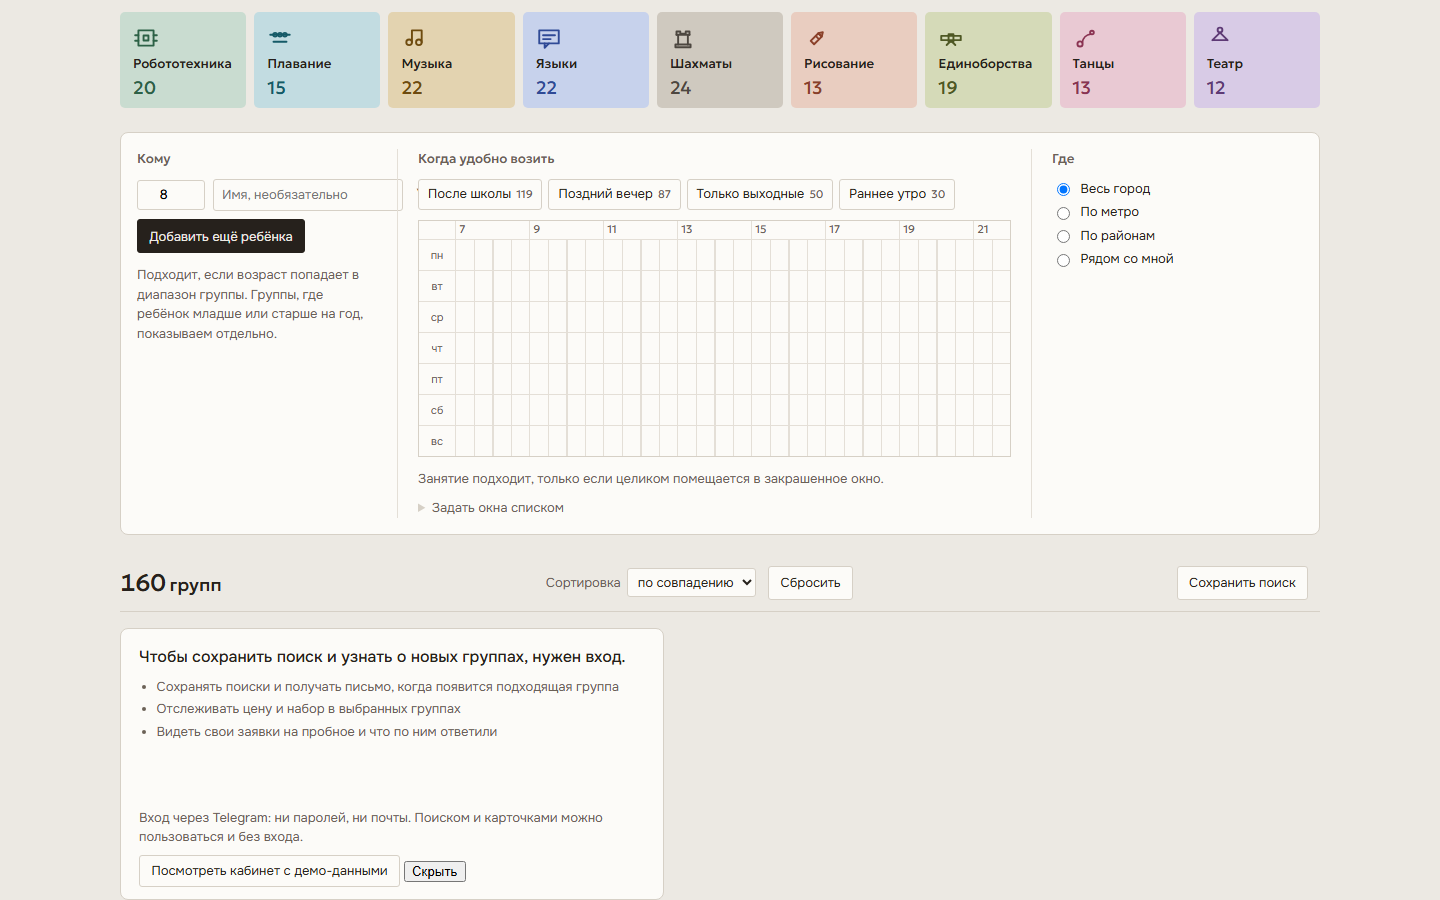
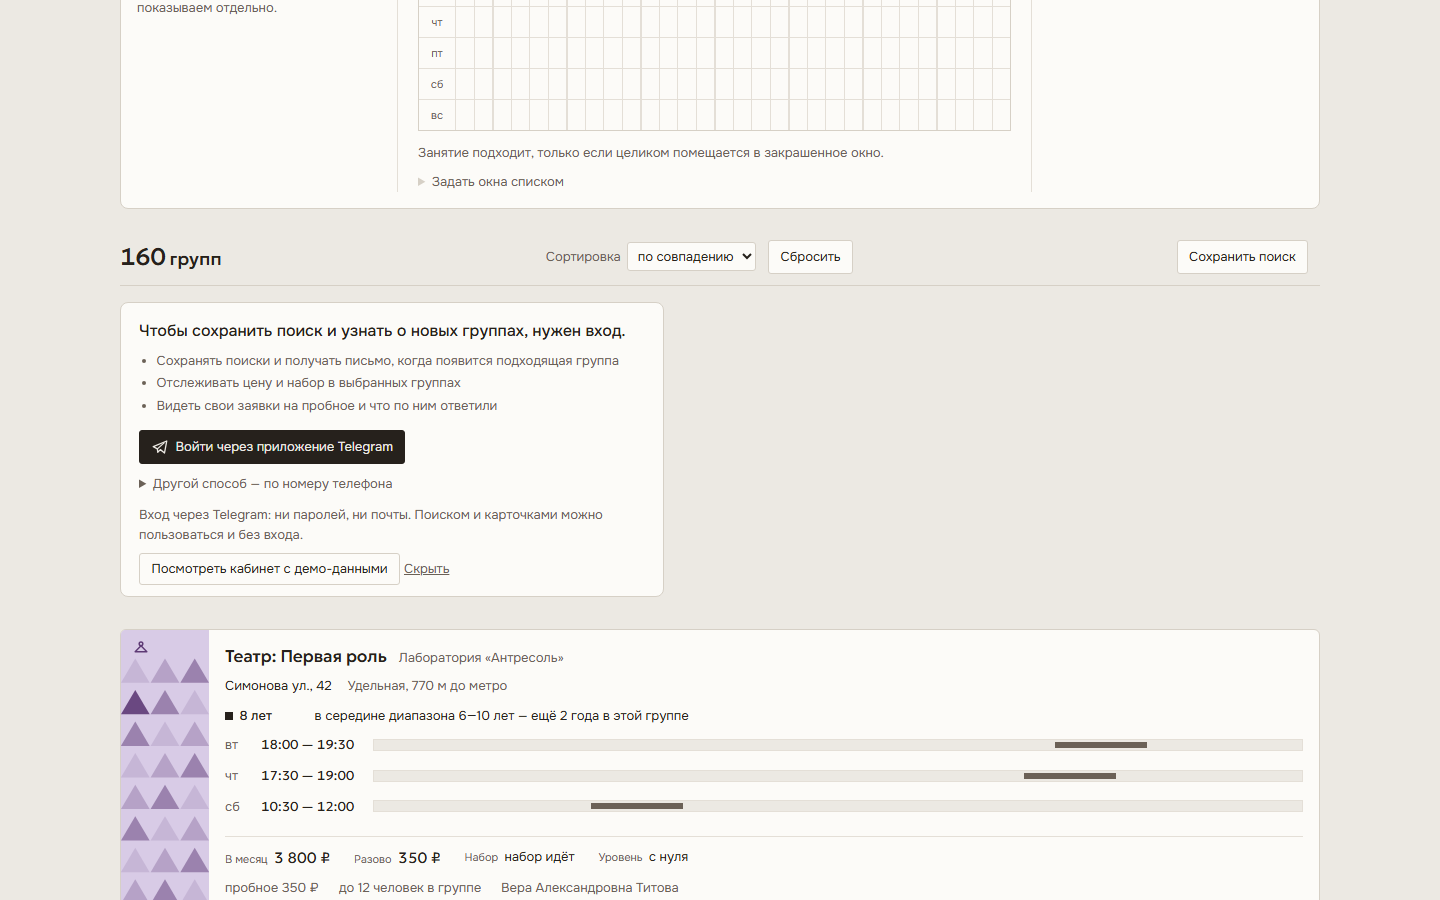
Снимки панели входа заново: она изменилась
На старом кадре был только виджет с номером. Добавлен и шаг с кодом
сверки — именно он объясняет, зачем в боте кнопка с четырьмя знаками.

diff --git a/README.md b/README.md
@@ -33,7 +33,11 @@
 
 | Отслеживаемые группы | Вход: что он даёт |
 | --- | --- |
-| ![Избранное с изменением цены](docs/screenshots/lk-favs-1440.png) | ![Панель входа под результатами поиска](docs/screenshots/login-1440.png) |
+| ![Избранное с изменением цены](docs/screenshots/lk-favs-1440.png) | ![Панель входа под результатами поиска: поиск под ней продолжает работать](docs/screenshots/login-1440.png) |
+
+| Вход через приложение: код сверки |
+| --- |
+| ![Код из четырёх знаков, кнопка «Открыть Telegram» и объяснение, зачем код](docs/screenshots/login-app-1440.png) |
 
 | Фильтры в шторке | Кабинет на телефоне |
 | --- | --- |
